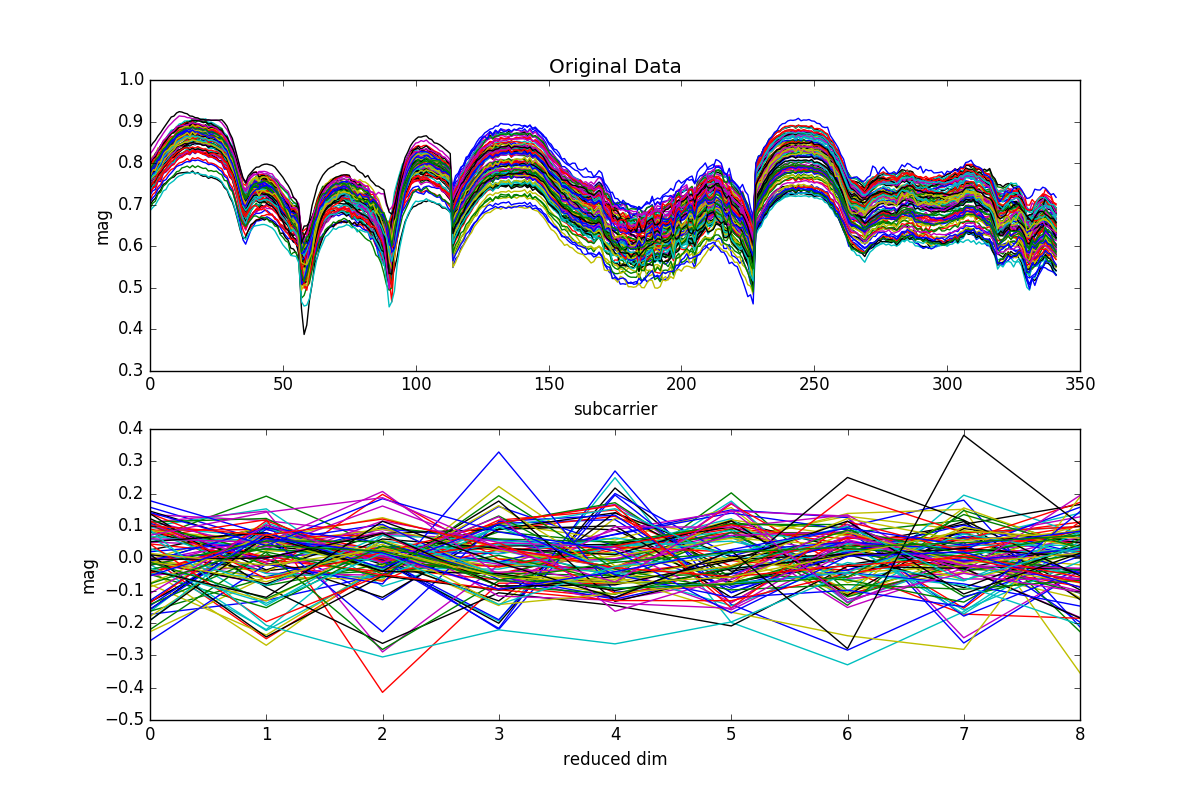
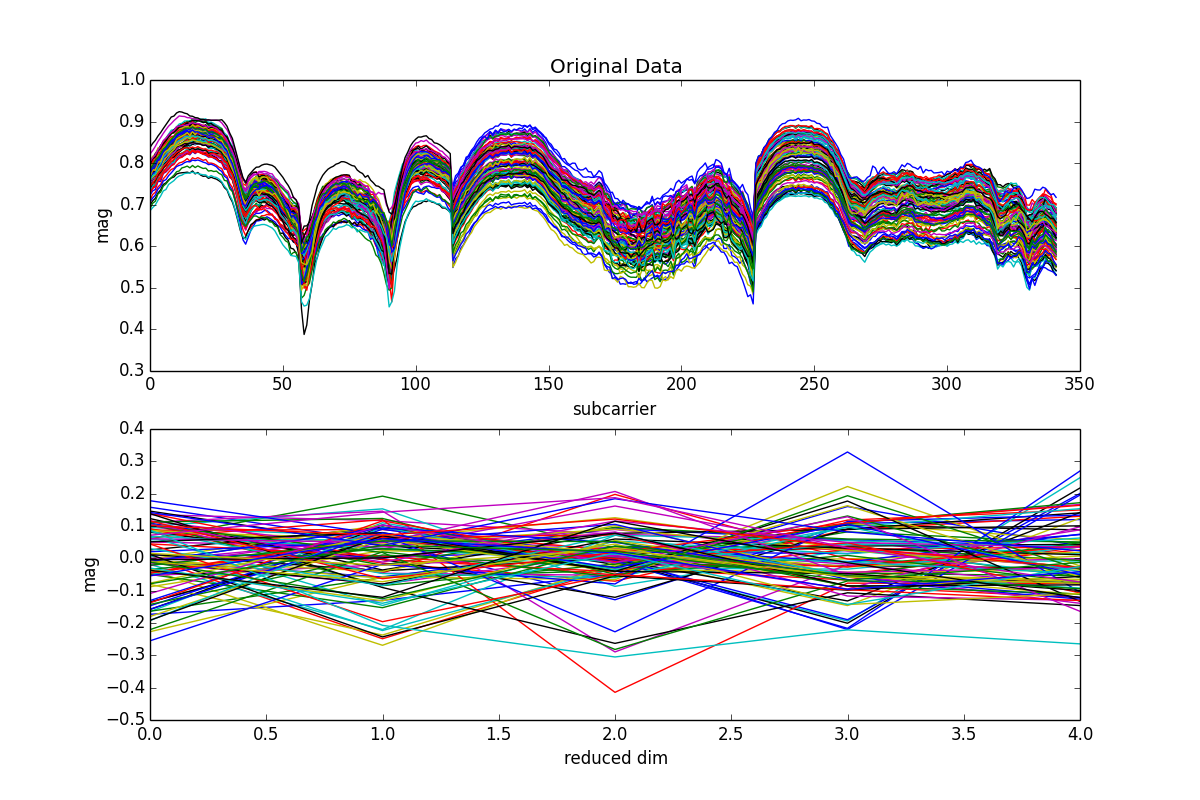
comment on lle

diff --git a/CSI_data_processing/mag_lle.py b/CSI_data_processing/mag_lle.py
@@ -1,5 +1,6 @@
 # - encoding=utf-8 -
-# Kmeans: 正确率100%
+# Locally Linear Embeddings Comparison
+# 看起来一般的线性和非线性降维结果都不好
 
 import scipy.io as sio
 import matplotlib.pyplot as plt
@@ -20,7 +21,7 @@ def main():
 	# Locally Linear Embeddings
 	X = vMag[:100,]
 	X_r, err = manifold.locally_linear_embedding(X, n_neighbors=12,
-                                             n_components=9)
+                                             n_components=5)
 	plt.figure(figsize=(12,8))
 	p1 = plt.subplot(211)
 	p2 = plt.subplot(212)
